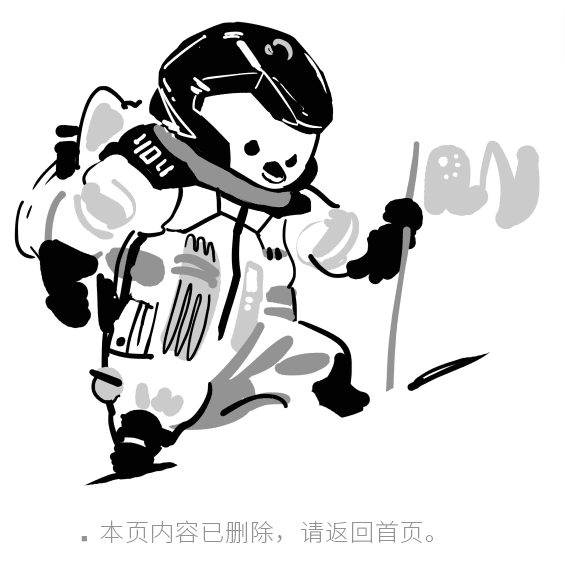
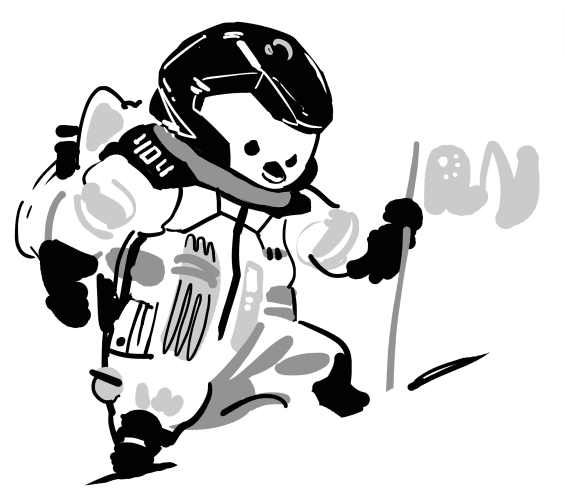
修改404页面

diff --git a/404.html b/404.html
@@ -18,7 +18,7 @@ layout: default
 
 <div class="container">
   <h1>404</h1>
-
-  <p><strong>Page not found :(</strong></p>
-  <p>The requested page could not be found.</p>
+  <img src="/assets/404.png">
+  <p><strong>你已经来到了宇宙的边缘</strong></p>
+  <p>回<a href="/">首页</a>看看吧。</p>
 </div>
